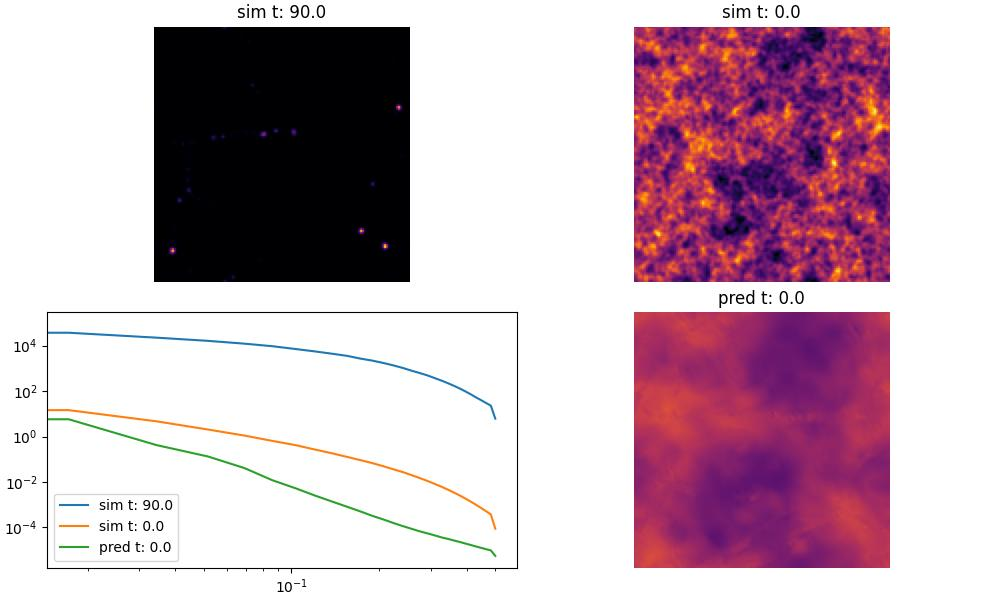
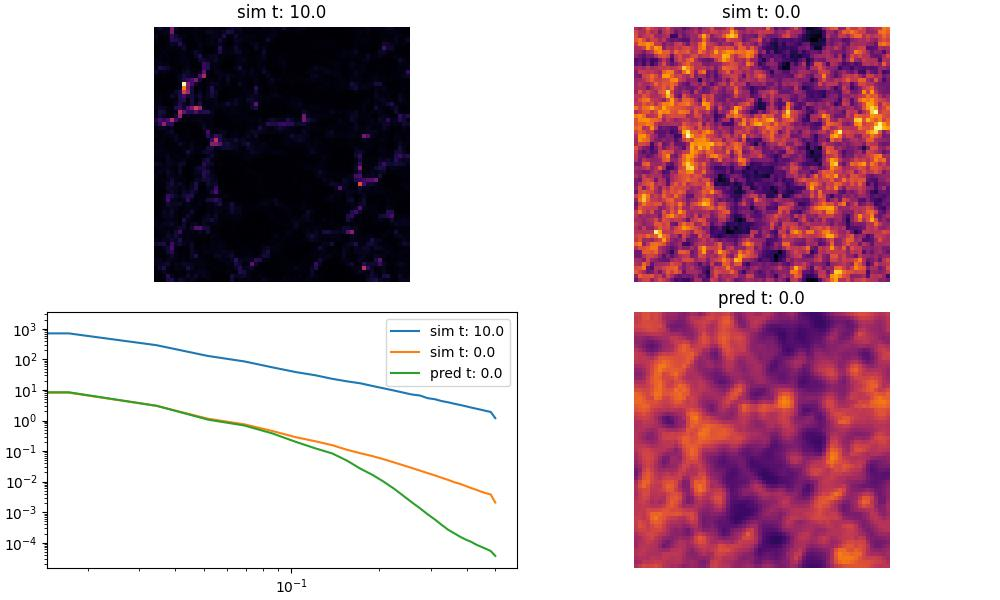
predictions on smaller scales look more promising

diff --git a/src/nn/trainer.py b/src/nn/trainer.py
@@ -18,37 +18,34 @@ def mse_loss(
 
     return mse, next_pred
 
-@partial(jax.jit, static_argnums=[2, 3])
+@partial(jax.jit, static_argnums=[2])
 def predict_batch(
         sequence : jax.Array,
         model_params,
-        model_static : eqx.Module,
-        sequential_mode : bool):
+        model_static : eqx.Module):
     
     n_frames = sequence.shape[1]
 
     total_loss = 0
 
-    if sequential_mode:
-        for i in range(n_frames-1):
-            loss, pred = mse_loss(
-                model_params[i] if sequential_mode else model_params,
-                model_static, 
-                sequence[:, i],
-                sequence[:, i+1])
-            
-            total_loss += loss
+    for i in range(n_frames-1):
+        loss, pred = mse_loss(
+            model_params,
+            model_static, 
+            sequence[:, i],
+            sequence[:, i+1])
+        
+        total_loss += loss
 
     return total_loss
 
-@partial(jax.jit, static_argnums=[2, 4, 5])
+@partial(jax.jit, static_argnums=[2, 4])
 def learn_batch(
         sequence : jax.Array,
         model_params,
         model_static : eqx.Module,
         optimizer_state : optax.OptState,
-        optimizer_static,
-        sequential_mode : bool):
+        optimizer_static):
     """
     Learn model on batch of sequences.
 
@@ -63,23 +60,18 @@ def learn_batch(
 
     for i in range(n_frames-1):
         (loss, pred), grad = value_and_grad(
-            model_params[i] if sequential_mode else model_params,
+            model_params,
             model_static, 
             sequence[:, i],
             sequence[:, i+1])
         
         updates, optimizer_state = optimizer_static.update(grad, optimizer_state)
 
-        model = eqx.combine(model_params[i] if sequential_mode else model_params, model_static)
+        model = eqx.combine(model_params, model_static)
         model = eqx.apply_updates(model, updates)
-        model_params_i, model_static = eqx.partition(model, eqx.is_array)
+        model_params, model_static = eqx.partition(model, eqx.is_array)
 
         total_loss += loss
-
-        if sequential_mode:
-            model_params[i] = model_params_i
-        else:
-            model_params = model_params_i
 
     return model_params, optimizer_state, total_loss
 
@@ -89,11 +81,10 @@ def train_model(
         train_data_iterator,
         val_data_iterator,
         learning_rate : float,
-        n_epochs : int,
-        sequential_mode : bool = True):
+        n_epochs : int):
     
     optimizer = optax.adam(learning_rate)
-    optimizer_state = optimizer.init(model_params[0])
+    optimizer_state = optimizer.init(model_params)
 
     training_loss = []
     validation_loss = []
@@ -112,8 +103,7 @@ def train_model(
                 model_params,
                 model_static,
                 optimizer_state,
-                optimizer,
-                sequential_mode)
+                optimizer)
             epoch_train_loss.append(loss)
 
         for _, data in enumerate(val_data_iterator):
@@ -122,8 +112,7 @@ def train_model(
             loss = predict_batch(
                 sequence_d,
                 model_params,
-                model_static,
-                sequential_mode)
+                model_static)
             epoch_val_loss.append(loss)
         
         epoch_train_loss = jnp.array(epoch_train_loss)

diff --git a/src/train.py b/src/train.py
@@ -56,25 +56,19 @@ def main(argv) -> None:
     #     **unet_hyperparams,	
     #     key=init_rng)
 
-
     sq_fno_hyperparams = {
-        "modes" : 8,
-        "hidden_channels" : 1,
-        "n_furier_layers" : 1}
+        "modes" : 16,
+        "input_channels" : 1,
+        "hidden_channels" : 4,
+        "output_channels" : 1,
+        "n_furier_layers" : 4}
 
-    model_static = 0
-    model_params = []
-    for i in range(config.steps):
-        model = nn.FNO(
-            activation = jax.nn.relu,
-            key = init_rng,
-            **sq_fno_hyperparams)
+    model = nn.FNO(
+        activation = jax.nn.relu,
+        key = init_rng,
+        **sq_fno_hyperparams)
 
-        model_params_i, model_static = eqx.partition(model, eqx.is_array)
-        model_params.append(model_params_i)
-
-    if not config.sequential_mode:
-        model_params = model_params[0]
+    model_params, model_static = eqx.partition(model, eqx.is_array)
 
     # model = nn.Dummy(
     #     num_spatial_dims=3,
@@ -94,8 +88,7 @@ def main(argv) -> None:
         train_data_iterator = train_data_iterator,
         val_data_iterator = val_data_iterator,
         learning_rate = config.learning_rate,
-        n_epochs = config.n_epochs,
-        sequential_mode = config.sequential_mode)
+        n_epochs = config.n_epochs)
 
     model = eqx.combine(model_params, model_static)
 

diff --git a/src/nn/fno/fno.py b/src/nn/fno/fno.py
@@ -24,7 +24,9 @@ class FNO(eqx.Module):
     def __init__(
             self,
             modes : int,
+            input_channels : int,
             hidden_channels : int,
+            output_channels : int,
             activation: Callable,
             n_furier_layers : int,
             key):
@@ -33,7 +35,7 @@ class FNO(eqx.Module):
 
         self.lift = eqx.nn.Conv(
             num_spatial_dims = 3,
-            in_channels = 1,
+            in_channels = input_channels,
             out_channels = hidden_channels, 
             kernel_size = 3,
             padding = 'SAME',
@@ -53,7 +55,7 @@ class FNO(eqx.Module):
         self.project = eqx.nn.Conv(
             num_spatial_dims = 3,
             in_channels = hidden_channels,
-            out_channels = 1,
+            out_channels = output_channels,
             kernel_size = 3,
             padding = 'SAME',
             padding_mode = 'CIRCULAR',

diff --git a/src/evaluate.py b/src/evaluate.py
@@ -24,7 +24,7 @@ def main(argv) -> None:
         grid_size = config.input_grid_size,
         directory = config.data_dir,
         start = 0,
-        steps = config.stride,
+        steps = config.steps,
         stride = config.stride,
         flip=True,        
         type = "val")

diff --git a/README.md b/README.md
@@ -51,6 +51,8 @@ conda update -c bccp --all
 
 ### Power Spectrum Plots
 
+We need a different environment for the nbodykit library due to python compatbility issues.
+
 ```
 conda create --name nbodykit-env python=3.8
 conda install -c bccp nbodykit
